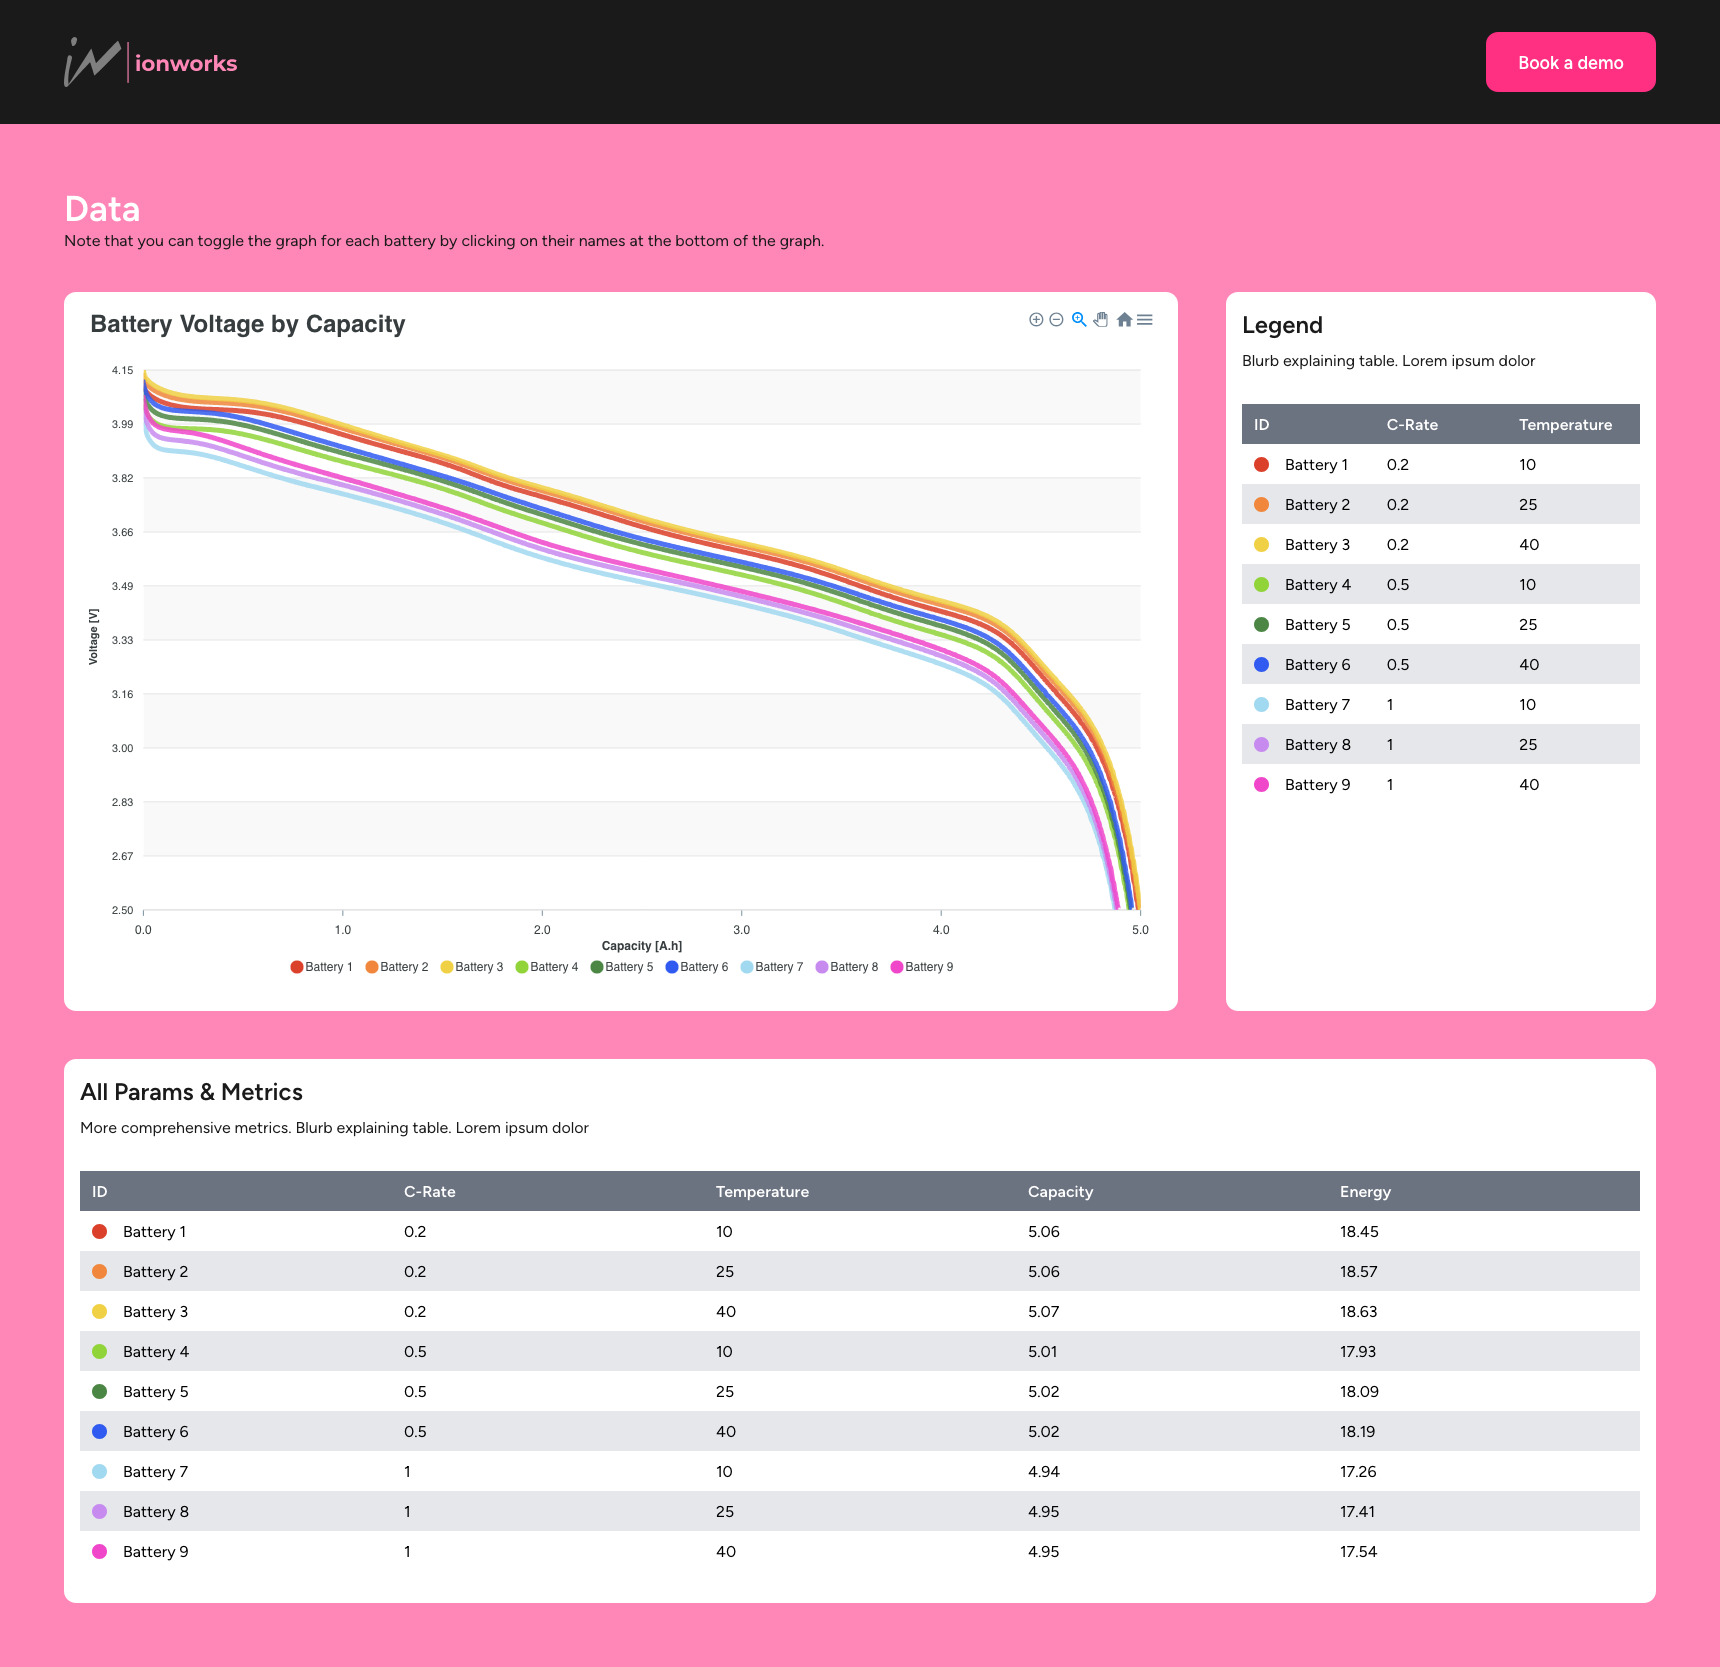
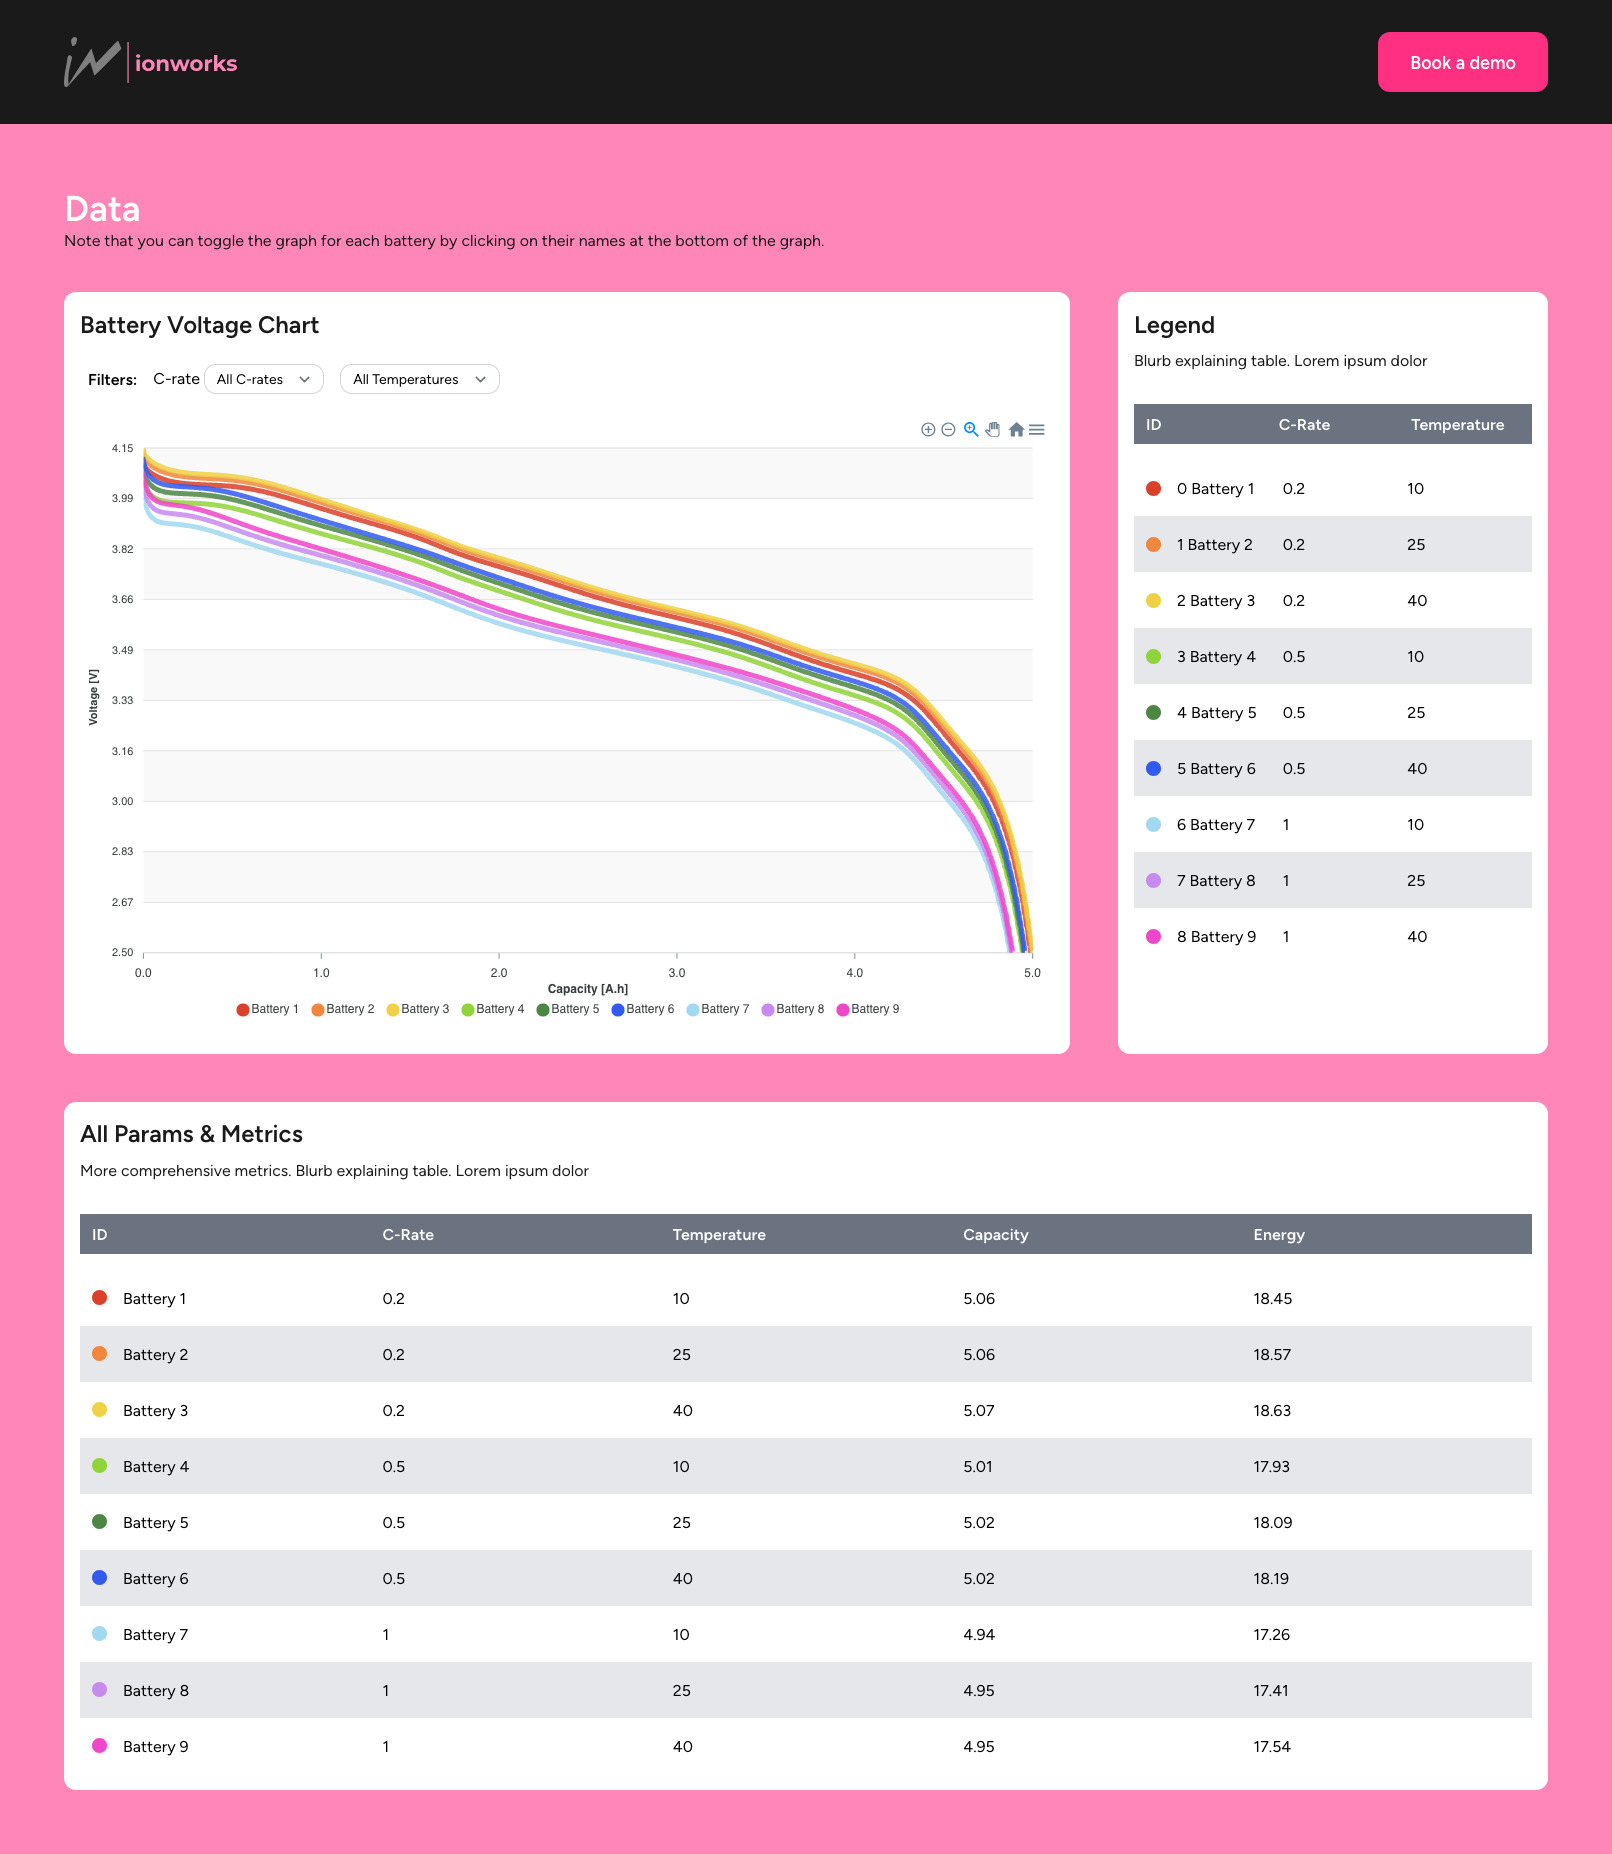
update readme & preview img to include filters

diff --git a/README.md b/README.md
@@ -31,7 +31,8 @@ Scroll to bottom of Readme for a screenshot :)
   * /resources/js/shared/services
     - This is a service I built to make axios calls easier (calling data from backend still in progress)
   * /app/Http/Controllers/DataController.php
-    - This is the controller that manages API calls (WIP)
+    - This is the controller that manages API calls
+    - I didn't create a database so the data is an object in this datacontroller file, and is returned as a json response via API call based on data variables passed in the URI 
   * /routes/api.php
     - Where the route to call the controller is defined
 
